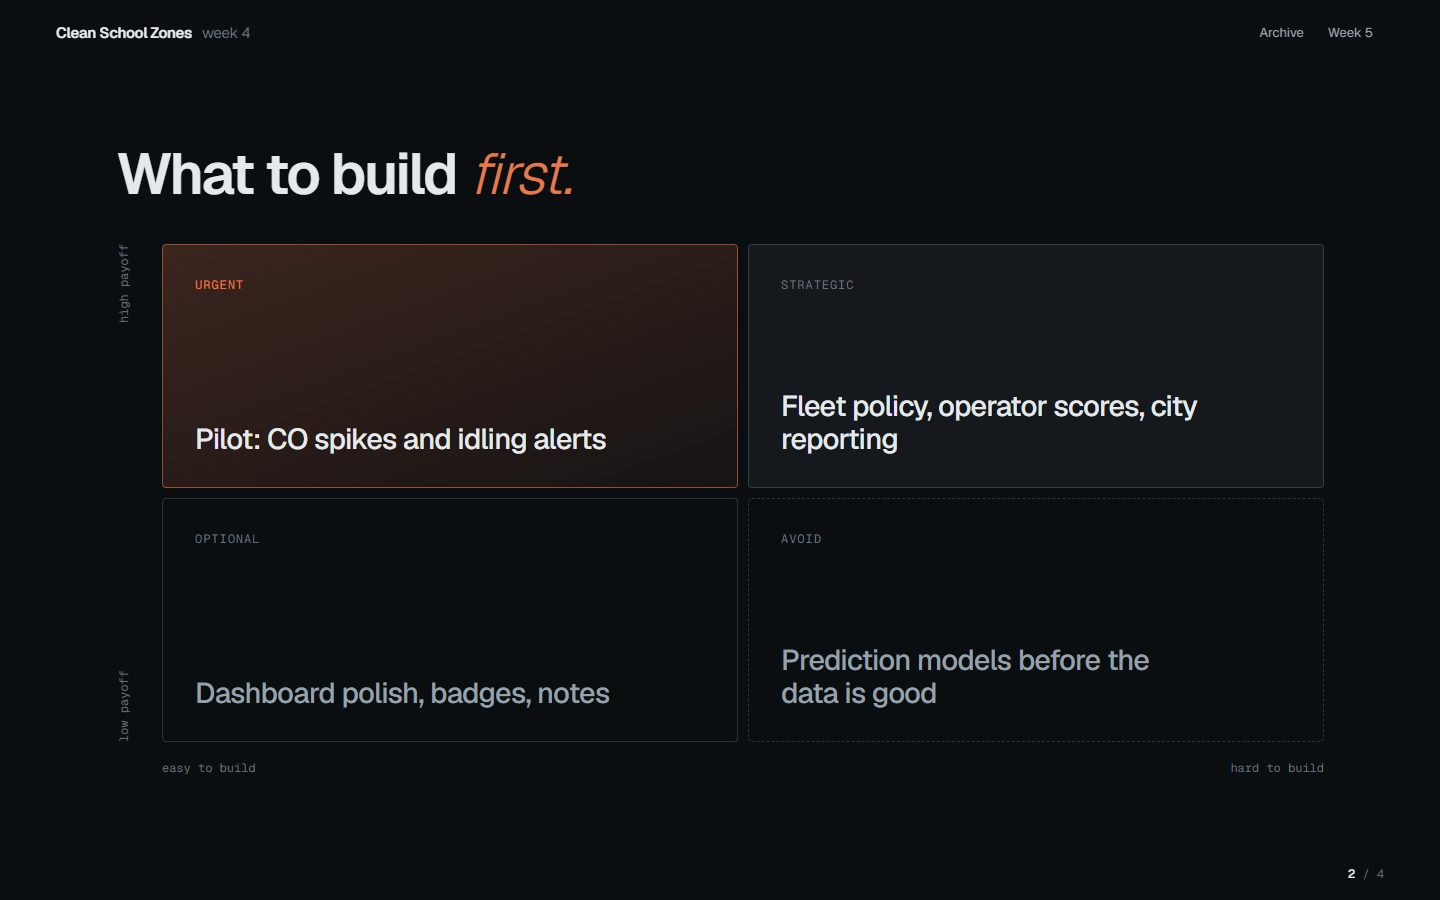
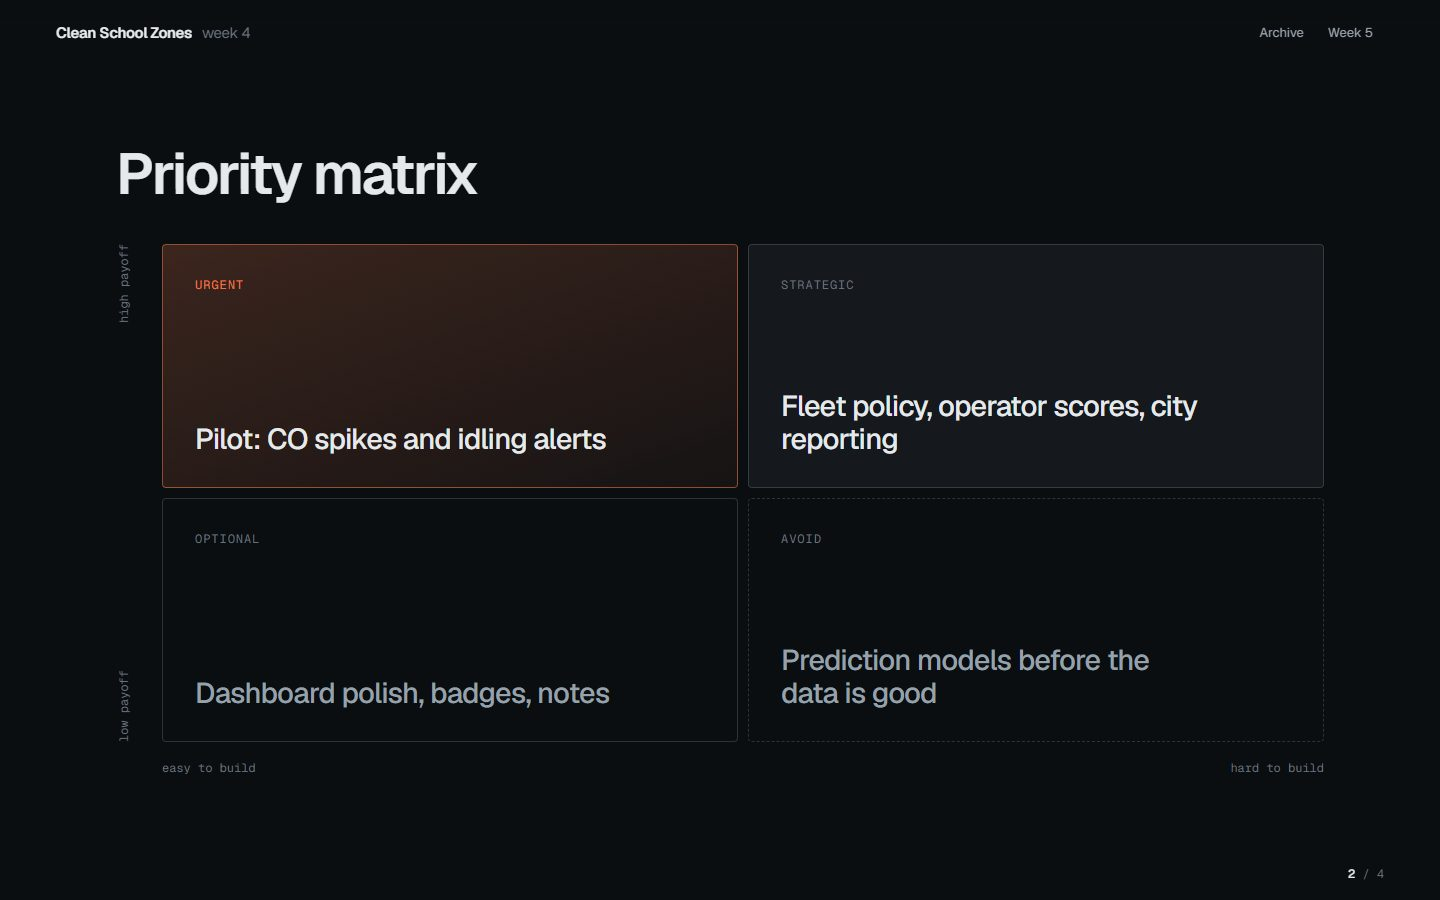
Plain slide titles, no italic accents, orange kept for data

Changed region(s): [[0.0625, 0.1556, 0.4062, 0.2178]]

diff --git a/index.html b/index.html
@@ -29,7 +29,7 @@
     .wrap { max-width: var(--max); margin: 0 auto; padding: 0 var(--gut); }
     .mono { font-family: var(--mono); font-variant-numeric: tabular-nums; }
     h1, h2, h3, h4 { margin: 0; font-weight: 600; letter-spacing: -0.035em; }
-    h2 { font-size: clamp(30px, 3.9vw, 56px); line-height: 1.04; max-width: 17ch; padding-bottom: 4px; }
+    h2 { font-size: clamp(30px, 3.6vw, 50px); line-height: 1.08; max-width: 22ch; padding-bottom: 4px; }
     h1 i, h2 i { font-style: italic; font-weight: 300; color: var(--heat); padding-right: 0.06em; }
     p { margin: 0; }
     .lead { font-size: clamp(16px, 1.35vw, 19px); line-height: 1.5; color: var(--muted); max-width: 46ch; margin-top: 16px; }
@@ -86,8 +86,8 @@
     .step .txt { max-width: 460px; pointer-events: auto; }
     .step h3 { font-size: clamp(30px, 3.2vw, 46px); line-height: 1.04; }
     .step .body { margin-top: 14px; color: #b3bdc6; font-size: 16px; }
-    .step .k { font-family: var(--mono); font-size: 13px; color: var(--heat); margin-bottom: 14px; display: block; }
-    .hero h1 { font-size: clamp(38px, 4.4vw, 68px); line-height: 1.06; max-width: 15ch; padding-bottom: 4px; }
+    .step .k { font-family: var(--mono); font-size: 13px; color: var(--muted); margin-bottom: 14px; display: block; }
+    .hero h1 { font-size: clamp(38px, 4.6vw, 70px); line-height: 1.04; max-width: 13ch; padding-bottom: 4px; }
     .hero .lead { color: #b3bdc6; max-width: 34ch; }
     .hero .txt { max-width: 700px; }
     .hero .ctas { display: flex; gap: 10px; margin-top: 30px; flex-wrap: wrap; }
@@ -176,12 +176,12 @@
     .risks { display: grid; grid-template-columns: repeat(2, minmax(0, 1fr)); gap: 1px; background: var(--line); border: 1px solid var(--line); border-radius: var(--r); overflow: hidden; margin-top: 32px; }
     .risk { background-color: var(--bg); padding: 24px; min-height: 150px; display: flex; flex-direction: column; justify-content: space-between; gap: 16px; transition: background .3s; cursor: help; }
     .risk:hover { background-color: var(--surface); }
-    .risk.hi { background: linear-gradient(180deg, var(--heat-soft), rgba(232,119,74,0.02)); }
+    .risk.hi { background-color: var(--surface); }
     .risk h4 { font-size: clamp(22px, 2.2vw, 30px); font-weight: 500; letter-spacing: -0.015em; line-height: 1.3; }
     .risk .t { font-family: var(--mono); font-size: 11.5px; color: var(--dim); }
-    .risk.hi .t { color: var(--heat); }
+    .risk.hi .t { color: var(--muted); }
     .mvp { display: grid; grid-template-columns: repeat(3, minmax(0, 1fr)); gap: clamp(24px, 3vw, 48px); margin-top: 40px; }
-    .mvp > div { border-top: 2px solid var(--heat); padding-top: 18px; }
+    .mvp > div { border-top: 1px solid var(--line-2); padding-top: 18px; }
     .mvp h4 { font-size: 26px; font-weight: 500; letter-spacing: -0.03em; }
     .mvp .body { margin-top: 10px; }
     .r3 { margin-top: 40px; display: grid; grid-template-columns: minmax(0, 7fr) minmax(0, 5fr); gap: clamp(24px, 4vw, 64px); align-items: center; }
@@ -192,7 +192,7 @@
     /* limits */
 
     .close { display: flex; flex-direction: column; gap: 36px; }
-    .close h2 { font-size: clamp(40px, 6vw, 88px); max-width: 16ch; }
+    .close h2 { max-width: 22ch; }
     .close .ctas { display: flex; gap: 10px; flex-wrap: wrap; }
     footer { margin-top: clamp(130px, 15vw, 190px); border-top: 1px solid var(--line); padding: 36px 0 52px; }
     footer .wrap { display: flex; justify-content: space-between; gap: 24px; align-items: center; flex-wrap: wrap; }
@@ -294,7 +294,7 @@
       </div>
       <div class="steps">
         <div class="step hero" data-step="0"><div class="wrap"><div class="txt">
-          <h1 class="split" id="h1">Waste heat from AI racks can <i>dry</i> Gulf electrical rooms.</h1>
+          <h1 class="split" id="h1">Drying electrical rooms with GPU waste heat</h1>
           <p class="lead">The design uses part of the 55 to 65 °C coolant to run a desiccant dryer.</p>
         </div></div></div>
         <div class="step" data-step="1"><div class="wrap"><div class="txt">
@@ -322,7 +322,7 @@
 
     <section id="problem" class="sec">
       <div class="wrap">
-        <h2 class="rv split">Abu Dhabi air is too humid for electronics <i>most of the year.</i></h2>
+        <h2 class="rv split">Abu Dhabi is too humid for electronics most of the year</h2>
         <div class="prob">
           <div class="rv">
             <div class="huge" id="p-hours">0</div>
@@ -339,11 +339,11 @@
 
     <section id="evidence" class="sec">
       <div class="wrap">
-        <h2 class="rv split">The dryer does not need <i>120 °C.</i></h2>
+        <h2 class="rv split">The loop is warm enough to run the dryer</h2>
         <div class="rv" id="scale" style="margin-top:56px"></div>
         <div class="strip rv">
-          <div><div class="v">121<small>°C</small></div><p class="body">what electric dryers heat to today<sup class="r">35</sup></p></div>
-          <div><div class="v">55–65<small>°C</small></div><p class="body">what the AI loop gives for free<sup class="r">24,25</sup></p></div>
+          <div><div class="v">121<small>°C</small></div><p class="body">electric dryers today<sup class="r">35</sup></p></div>
+          <div><div class="v">55–65<small>°C</small></div><p class="body">AI-loop return temperature<sup class="r">24,25</sup></p></div>
           <div><div class="v">+40–48<small>%</small></div><p class="body">more drying from a MOF wheel at 50 °C<sup class="r">31</sup></p></div>
         </div>
       </div>
@@ -351,7 +351,7 @@
 
     <section id="prior" class="sec">
       <div class="wrap">
-        <h2 class="rv split">Researchers have tried this since 2014. <i>Nobody has deployed it.</i></h2>
+        <h2 class="rv split">Earlier attempts, 2010 to 2026</h2>
         <div class="tlwrap rv"><div id="tl" class="wide"></div></div>
         <div class="gap rv"><p>We found no production system, no design that uses <b>AI-loop heat</b>, and no attempt in the <b>Gulf</b>.<sup class="r">40,41,46</sup></p></div>
       </div>
@@ -359,7 +359,7 @@
 
     <section id="market" class="sec">
       <div class="wrap">
-        <h2 class="rv split">The UAE is building <i>gigawatt</i> AI campuses.</h2>
+        <h2 class="rv split">UAE data-centre capacity</h2>
         <div class="mkt">
           <div class="figs">
             <div class="rv"><div class="v"><span class="cu" data-to="358">358</span><span class="ar">→</span><span class="cu" data-to="950">950</span><small>MW</small></div><p class="d">UAE capacity, 2025 to 2028<sup class="r">47</sup></p></div>
@@ -372,7 +372,7 @@
 
     <section id="model" class="sec">
       <div class="wrap">
-        <h2 class="rv split">Savings, computed for <i>every hour</i> of a typical year.</h2>
+        <h2 class="rv split">What it saves in a year</h2>
         <div class="inst rv">
           <div class="ctl spot">
             <div><label>Site</label><div class="seg" id="m-site" role="group" aria-label="Site"><button class="on" data-site="abu-dhabi">Abu Dhabi</button><button data-site="dubai">Dubai</button></div></div>
@@ -400,7 +400,7 @@
 
     <section id="test" class="sec">
       <div class="wrap">
-        <h2 class="rv split">Two things <i>could end the project.</i></h2>
+        <h2 class="rv split">The two biggest risks</h2>
         <div class="risks" id="risks"></div>
         <div class="mvp">
           <div class="rv"><h4>Ask</h4><p class="body">operator interviews<sup class="r">54</sup></p></div>
@@ -412,9 +412,9 @@
 
     <section id="close" class="sec">
       <div class="wrap close">
-        <h2 class="rv split">Backed by research. <i>Already bought</i> in the UAE.</h2>
+        <h2 class="rv split">Research-backed, and already bought in the UAE</h2>
         <div class="strip rv" style="margin-top:40px">
-          <div><div class="v">104</div><p class="body">cited sources behind every number here</p></div>
+          <div><div class="v">104</div><p class="body">cited sources in the report</p></div>
           <div><div class="v">DEWA<small>ADDC, SEC</small></div><p class="body">already buy desiccant dryers for switchgear rooms<sup class="r">12</sup></p></div>
           <div><div class="v">G1</div><p class="body">clean-air class Dell, IBM and HP require in server warranties<sup class="r">7</sup></p></div>
         </div>

diff --git a/week4/index.html b/week4/index.html
@@ -28,7 +28,7 @@
     .links a:hover { color: var(--text); }
     section { min-height: 100dvh; scroll-snap-align: start; display: flex; align-items: center; padding: 84px 0 56px; }
     h2 { font-size: clamp(32px, 4vw, 58px); line-height: 1.04; }
-    .k { font-family: var(--mono); font-size: 13px; color: var(--heat); display: block; margin-bottom: 18px; }
+    .k { font-family: var(--mono); font-size: 13px; color: var(--muted); display: block; margin-bottom: 18px; }
 
     /* 1 title */
     .t1 { display: grid; grid-template-columns: minmax(0, 1.1fr) minmax(0, 1fr); gap: clamp(32px, 5vw, 80px); align-items: center; }
@@ -102,7 +102,7 @@
   <main>
     <section id="w1"><div class="wrap t1">
       <div class="rv">
-        <h1>Clean School <i>Zones</i></h1>
+        <h1>Clean School Zones</h1>
         <p class="sub">Low-cost sensors for school bus idling and AC efficiency.</p>
       </div>
       <div class="rv">
@@ -115,7 +115,7 @@
     </div></section>
 
     <section id="w2"><div class="wrap">
-      <h2 class="rv">What to build <i>first.</i></h2>
+      <h2 class="rv">Priority matrix</h2>
       <div class="mx">
         <div class="ylab"><span>low payoff</span><span>high payoff</span></div>
         <div class="q urgent"><span class="tag">URGENT</span><h3>Pilot: CO spikes and idling alerts</h3></div>
@@ -129,7 +129,7 @@
     <section id="w3"><div class="wrap s3">
       <div class="rv">
         <span class="k">the outside sensor</span>
-        <h2>MQ-7B carbon <i>monoxide</i> sensor</h2>
+        <h2>The MQ-7B CO sensor</h2>
         <div class="specs">
           <div><span class="v">10–500<small>ppm</small></span><span class="d">CO range</span></div>
           <div><span class="v">5<small>V</small></span><span class="d">simple analog circuit</span></div>
@@ -141,7 +141,7 @@
     </div></section>
 
     <section id="w4"><div class="wrap">
-      <h2 class="rv">Three things that <i>must hold.</i></h2>
+      <h2 class="rv">Three assumptions</h2>
       <div class="risks">
         <div><div class="n">01</div><h3>The cheap sensor tracks real exposure</h3></div>
         <div><div class="n">02</div><h3>Heat, vibration and dust don't distort it</h3></div>

diff --git a/archive/index.html b/archive/index.html
@@ -49,7 +49,7 @@
 <body>
   <header class="nav"><div class="wrap"><a class="mark" href="../">AGRL130</a><a class="l" href="../">Week 5</a></div></header>
   <main class="wrap">
-    <h1>Four weeks, <i>four ideas.</i></h1>
+    <h1>AGRL130, weeks 2 to 5</h1>
     <div class="grid">
       <a class="card now c5" href="../"><div class="img"><img src="week5.jpg" alt="Week 5, Dry Rooms, a 3D model of the system" loading="lazy" /></div><div class="cap"><h2>Dry Rooms</h2><span class="wk">week 5, now</span></div><span class="arrow" aria-hidden="true">↗</span></a>
       <a class="card c4" href="../week4/"><div class="img"><img src="week4-w2.jpg" alt="Week 4, Clean School Zones, a priority matrix" loading="lazy" /></div><div class="cap"><h2>Clean School Zones</h2><span class="wk">week 4</span></div><span class="arrow" aria-hidden="true">↗</span></a>
